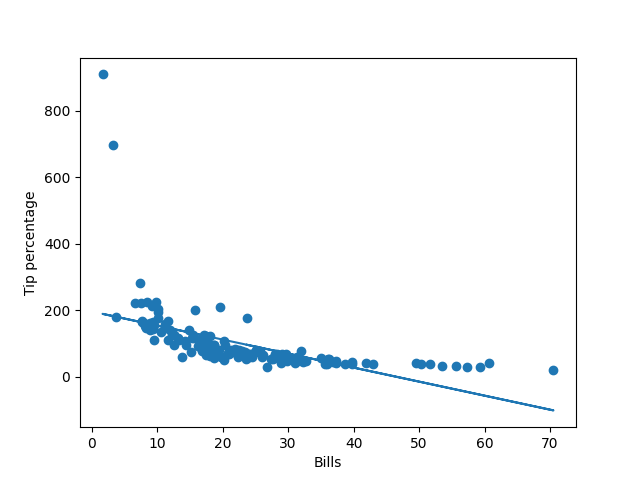
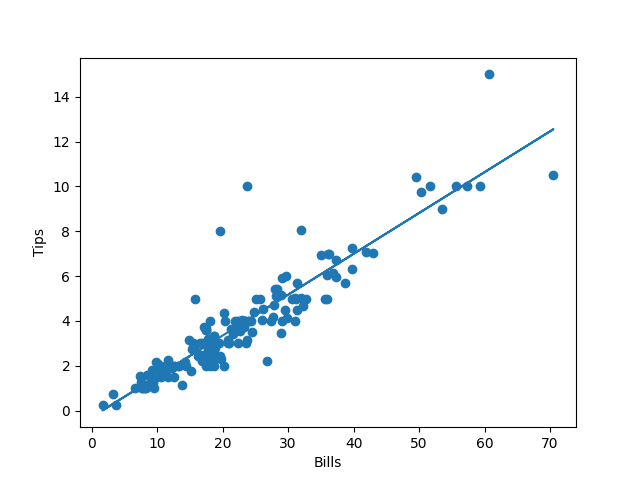
done

diff --git a/tipping.py b/tipping.py
@@ -26,6 +26,7 @@ plt.show()
 
 print_equation(slope,intercept,'$','$')
 #The equation of the line is: y = 0.18221473222560391 $/$ + -0.2922674195507699 $
+fig.savefig('dataplot.png')
 
 def percent_tip(x, y):
     return y/x * 100
@@ -45,4 +46,4 @@ plt.show()
 
 print_equation(slope,intercept,'$','%')
 #The equation of the line is: y = -4.218462100353182 %/$ + 196.25632393318284 %
-fig.savefig('dataplot.png')
+fig.savefig('tips%plot.png')
